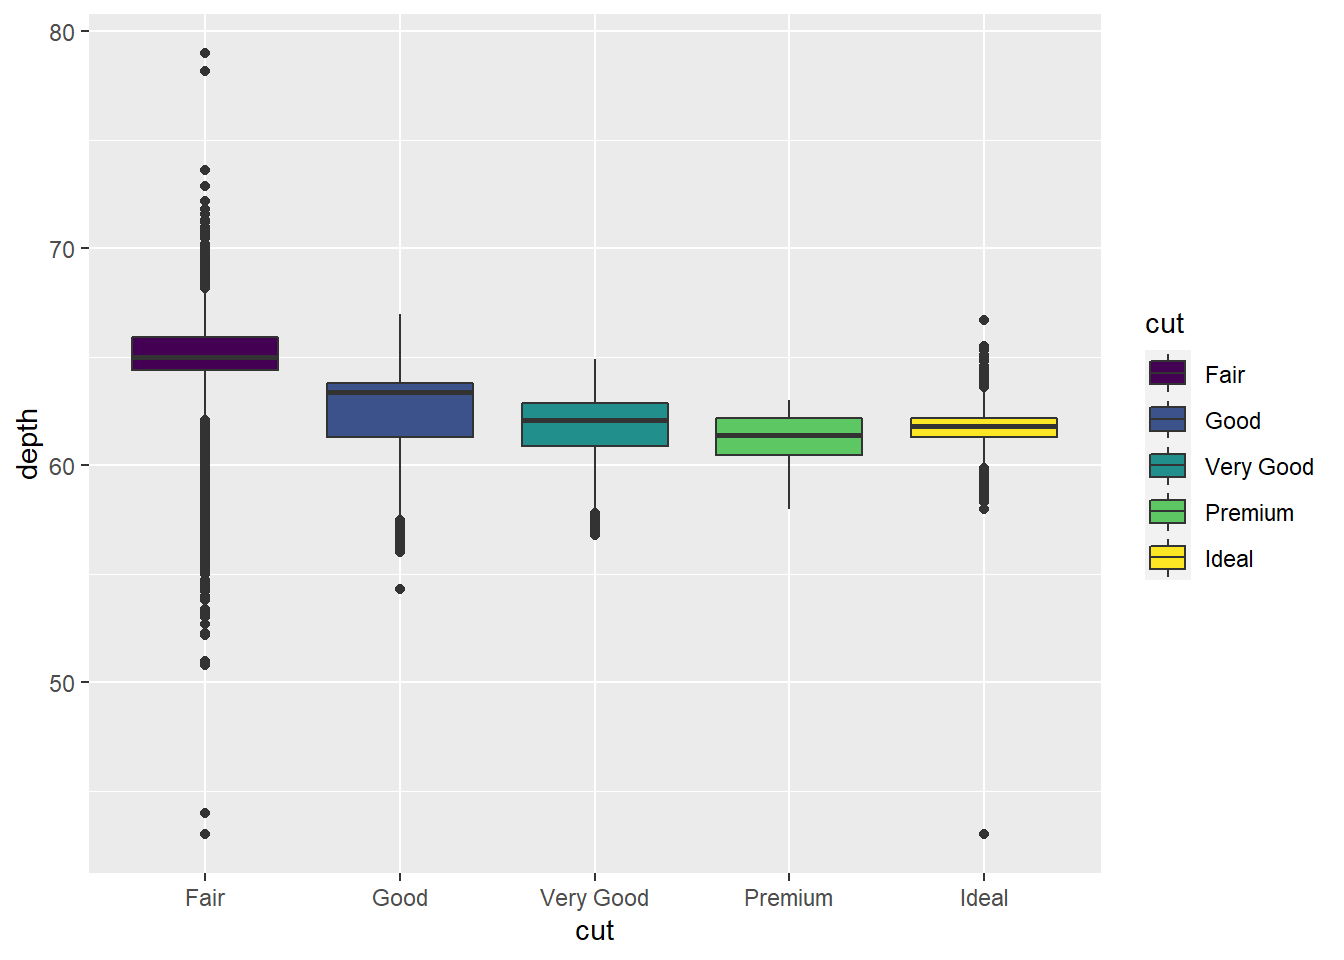
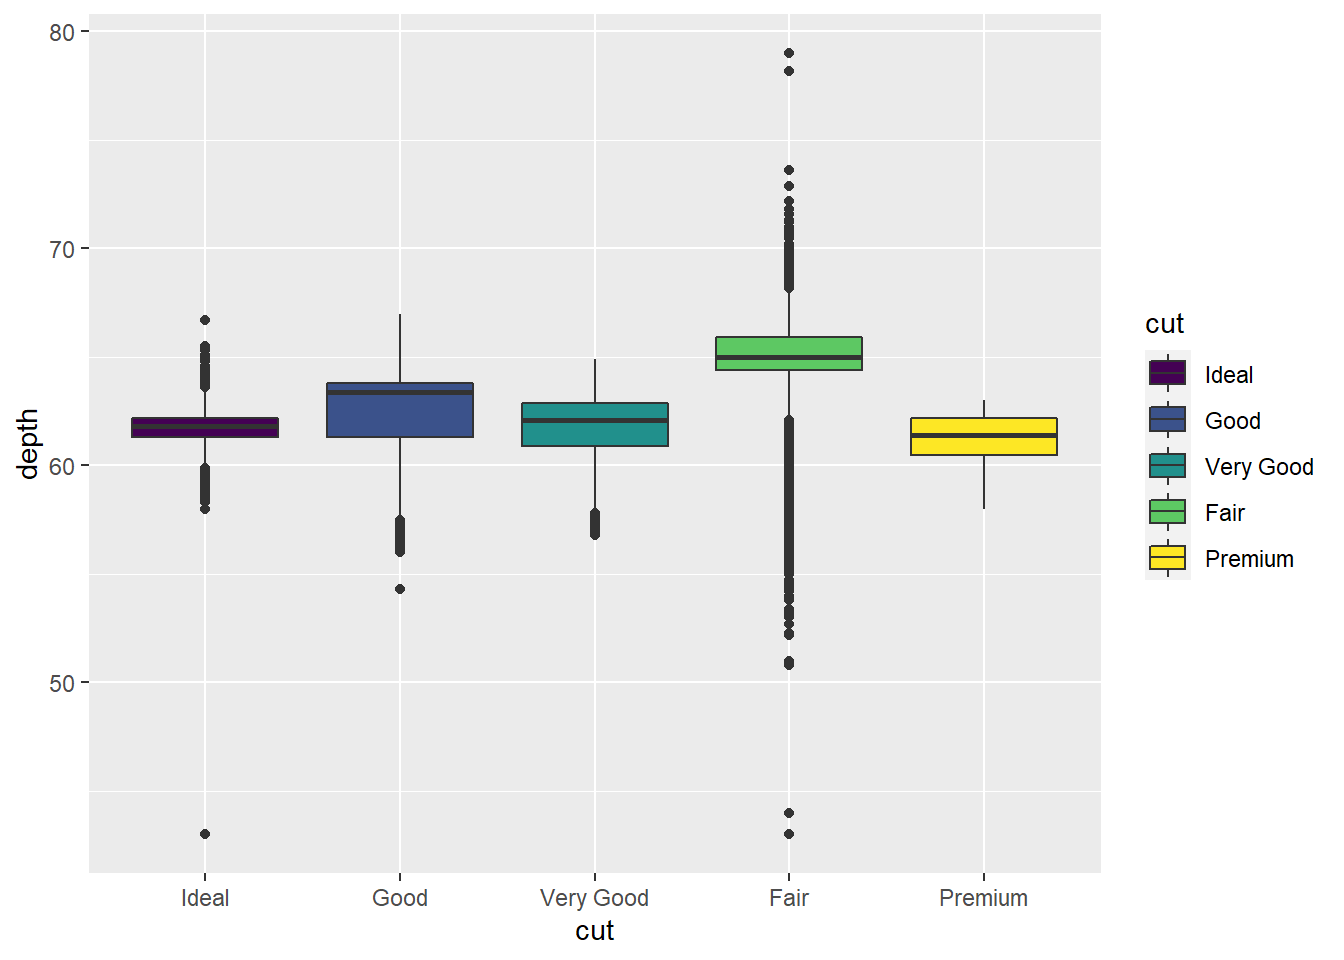
update

diff --git a/content/functions/functions-presentation-ROGASH.html b/content/functions/functions-presentation-ROGASH.html
@@ -58,7 +58,7 @@ data(diamonds)</code></pre>
 <pre class="r"><code>diamonds &lt;- diamonds %&gt;% 
   mutate(cut = fct_shuffle(cut))
 levels(diamonds$cut)</code></pre>
-<pre><code>## [1] &quot;Fair&quot;      &quot;Good&quot;      &quot;Very Good&quot; &quot;Premium&quot;   &quot;Ideal&quot;</code></pre>
+<pre><code>## [1] &quot;Ideal&quot;     &quot;Good&quot;      &quot;Very Good&quot; &quot;Fair&quot;      &quot;Premium&quot;</code></pre>
 <pre class="r"><code>diamonds %&gt;%
  ggplot(aes(x=cut,y=depth,fill=cut)) +
   geom_boxplot()</code></pre>
@@ -69,14 +69,14 @@ levels(diamonds$cut)</code></pre>
 <pre class="r"><code>diamonds &lt;- diamonds %&gt;% 
   mutate(cut = fct_relevel(cut, &quot;Fair&quot;))
 levels(diamonds$cut)</code></pre>
-<pre><code>## [1] &quot;Fair&quot;      &quot;Good&quot;      &quot;Very Good&quot; &quot;Premium&quot;   &quot;Ideal&quot;</code></pre>
+<pre><code>## [1] &quot;Fair&quot;      &quot;Ideal&quot;     &quot;Good&quot;      &quot;Very Good&quot; &quot;Premium&quot;</code></pre>
 <blockquote>
 <p>If you want to move a value to a different spot, you add in the argument “after” which you set to the integer value of the spot you want the value to be after. If you want the value at the end, but you don’t know how many levels there are, you can use <code>after=Inf</code> (don’t forget the capital ‘I’!).</p>
 </blockquote>
 <pre class="r"><code>diamonds &lt;- diamonds %&gt;% 
   mutate(cut = fct_relevel(cut, &quot;Good&quot;, after=1))
 levels(diamonds$cut)</code></pre>
-<pre><code>## [1] &quot;Fair&quot;      &quot;Good&quot;      &quot;Very Good&quot; &quot;Premium&quot;   &quot;Ideal&quot;</code></pre>
+<pre><code>## [1] &quot;Fair&quot;      &quot;Good&quot;      &quot;Ideal&quot;     &quot;Very Good&quot; &quot;Premium&quot;</code></pre>
 <blockquote>
 <p>If you want to move multiple values, you can set your second argument to a vector of the elements you want to move.</p>
 </blockquote>
@@ -96,7 +96,7 @@ levels(diamondssort$cut)</code></pre>
 diamondssample &lt;- diamonds %&gt;% 
   mutate(cut = fct_relevel(cut, sample))
 levels(diamondssample$cut)</code></pre>
-<pre><code>## [1] &quot;Premium&quot;   &quot;Good&quot;      &quot;Fair&quot;      &quot;Very Good&quot; &quot;Ideal&quot;</code></pre>
+<pre><code>## [1] &quot;Premium&quot;   &quot;Fair&quot;      &quot;Good&quot;      &quot;Ideal&quot;     &quot;Very Good&quot;</code></pre>
 <pre class="r"><code>#reverses the order
 diamondsrev &lt;- diamonds %&gt;% 
   mutate(cut = fct_relevel(cut, rev))

diff --git a/content/class/08-class.html b/content/class/08-class.html
@@ -1,8 +1,8 @@
 ---
-title: "Part 7. purrr"
-linktitle: "Part 7. purrr"
-date: "2021-02-17"
-class_date: "2021-02-17"
+title: "Part 8. Statistical Modeling/More purrr"
+linktitle: "Part 8. Statistical Modeling/More purrr"
+date: "2021-02-24"
+class_date: "2021-02-24"
 output:
   blogdown::html_page:
     toc: true
